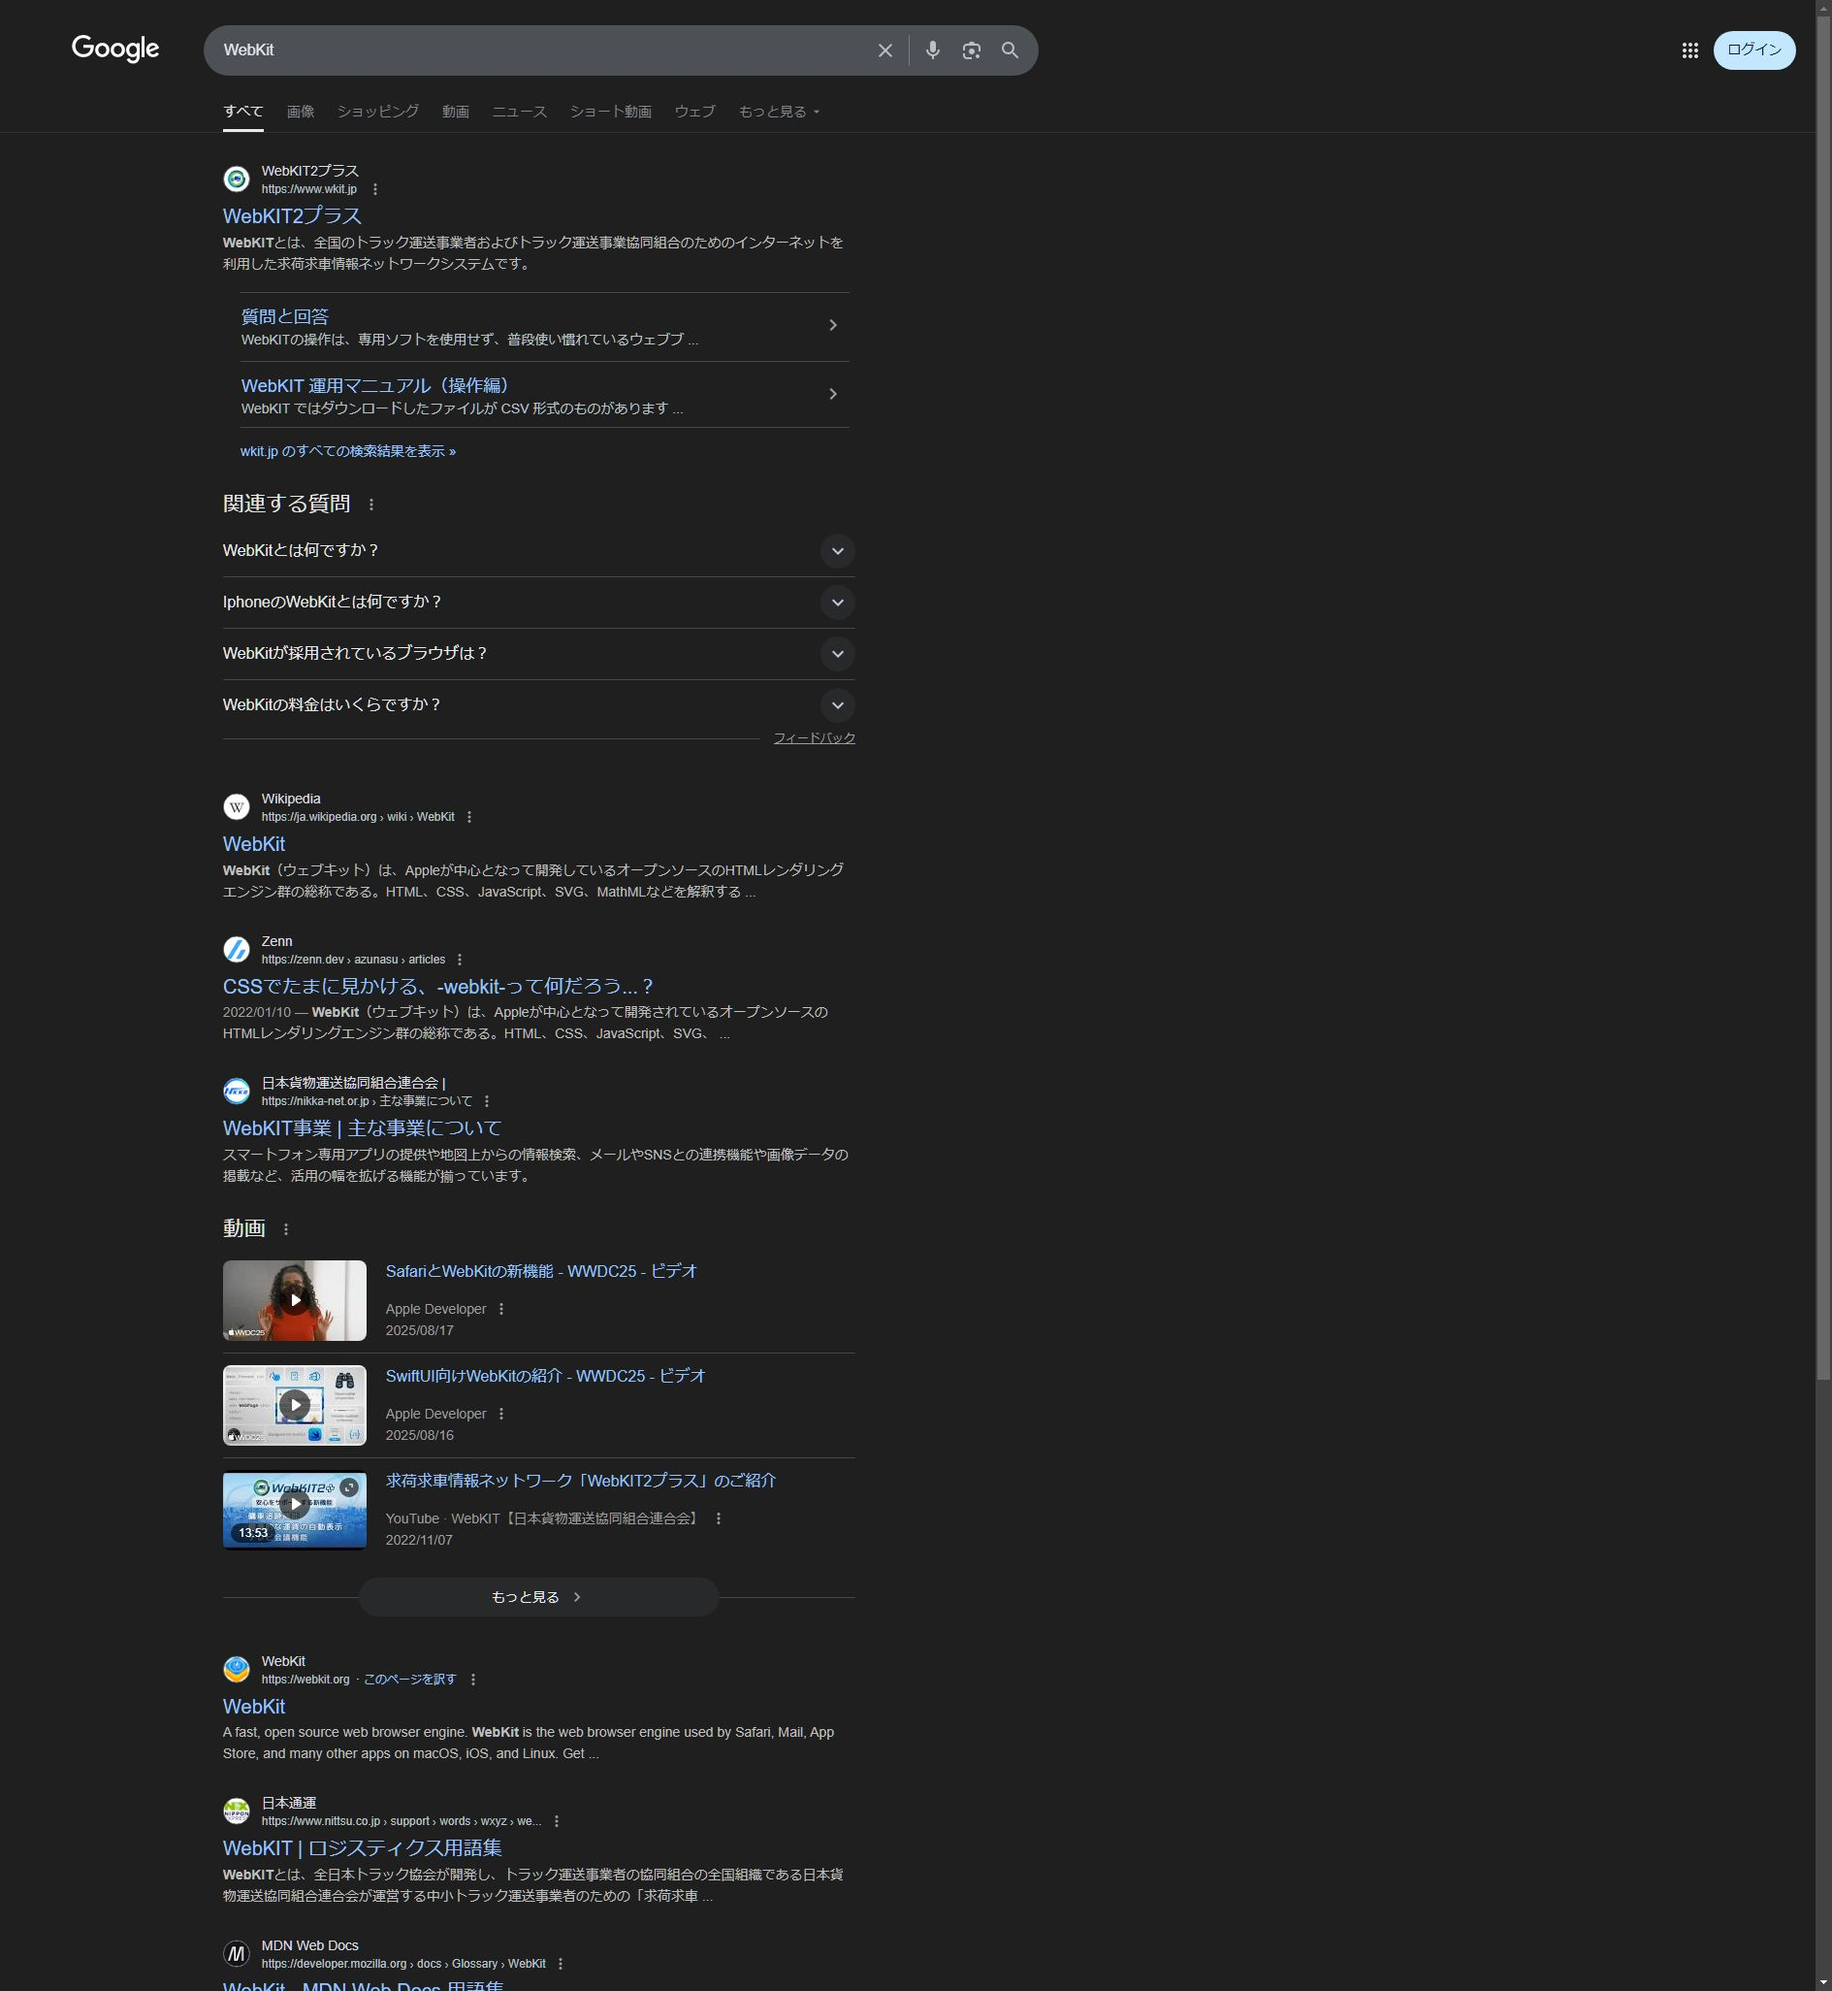
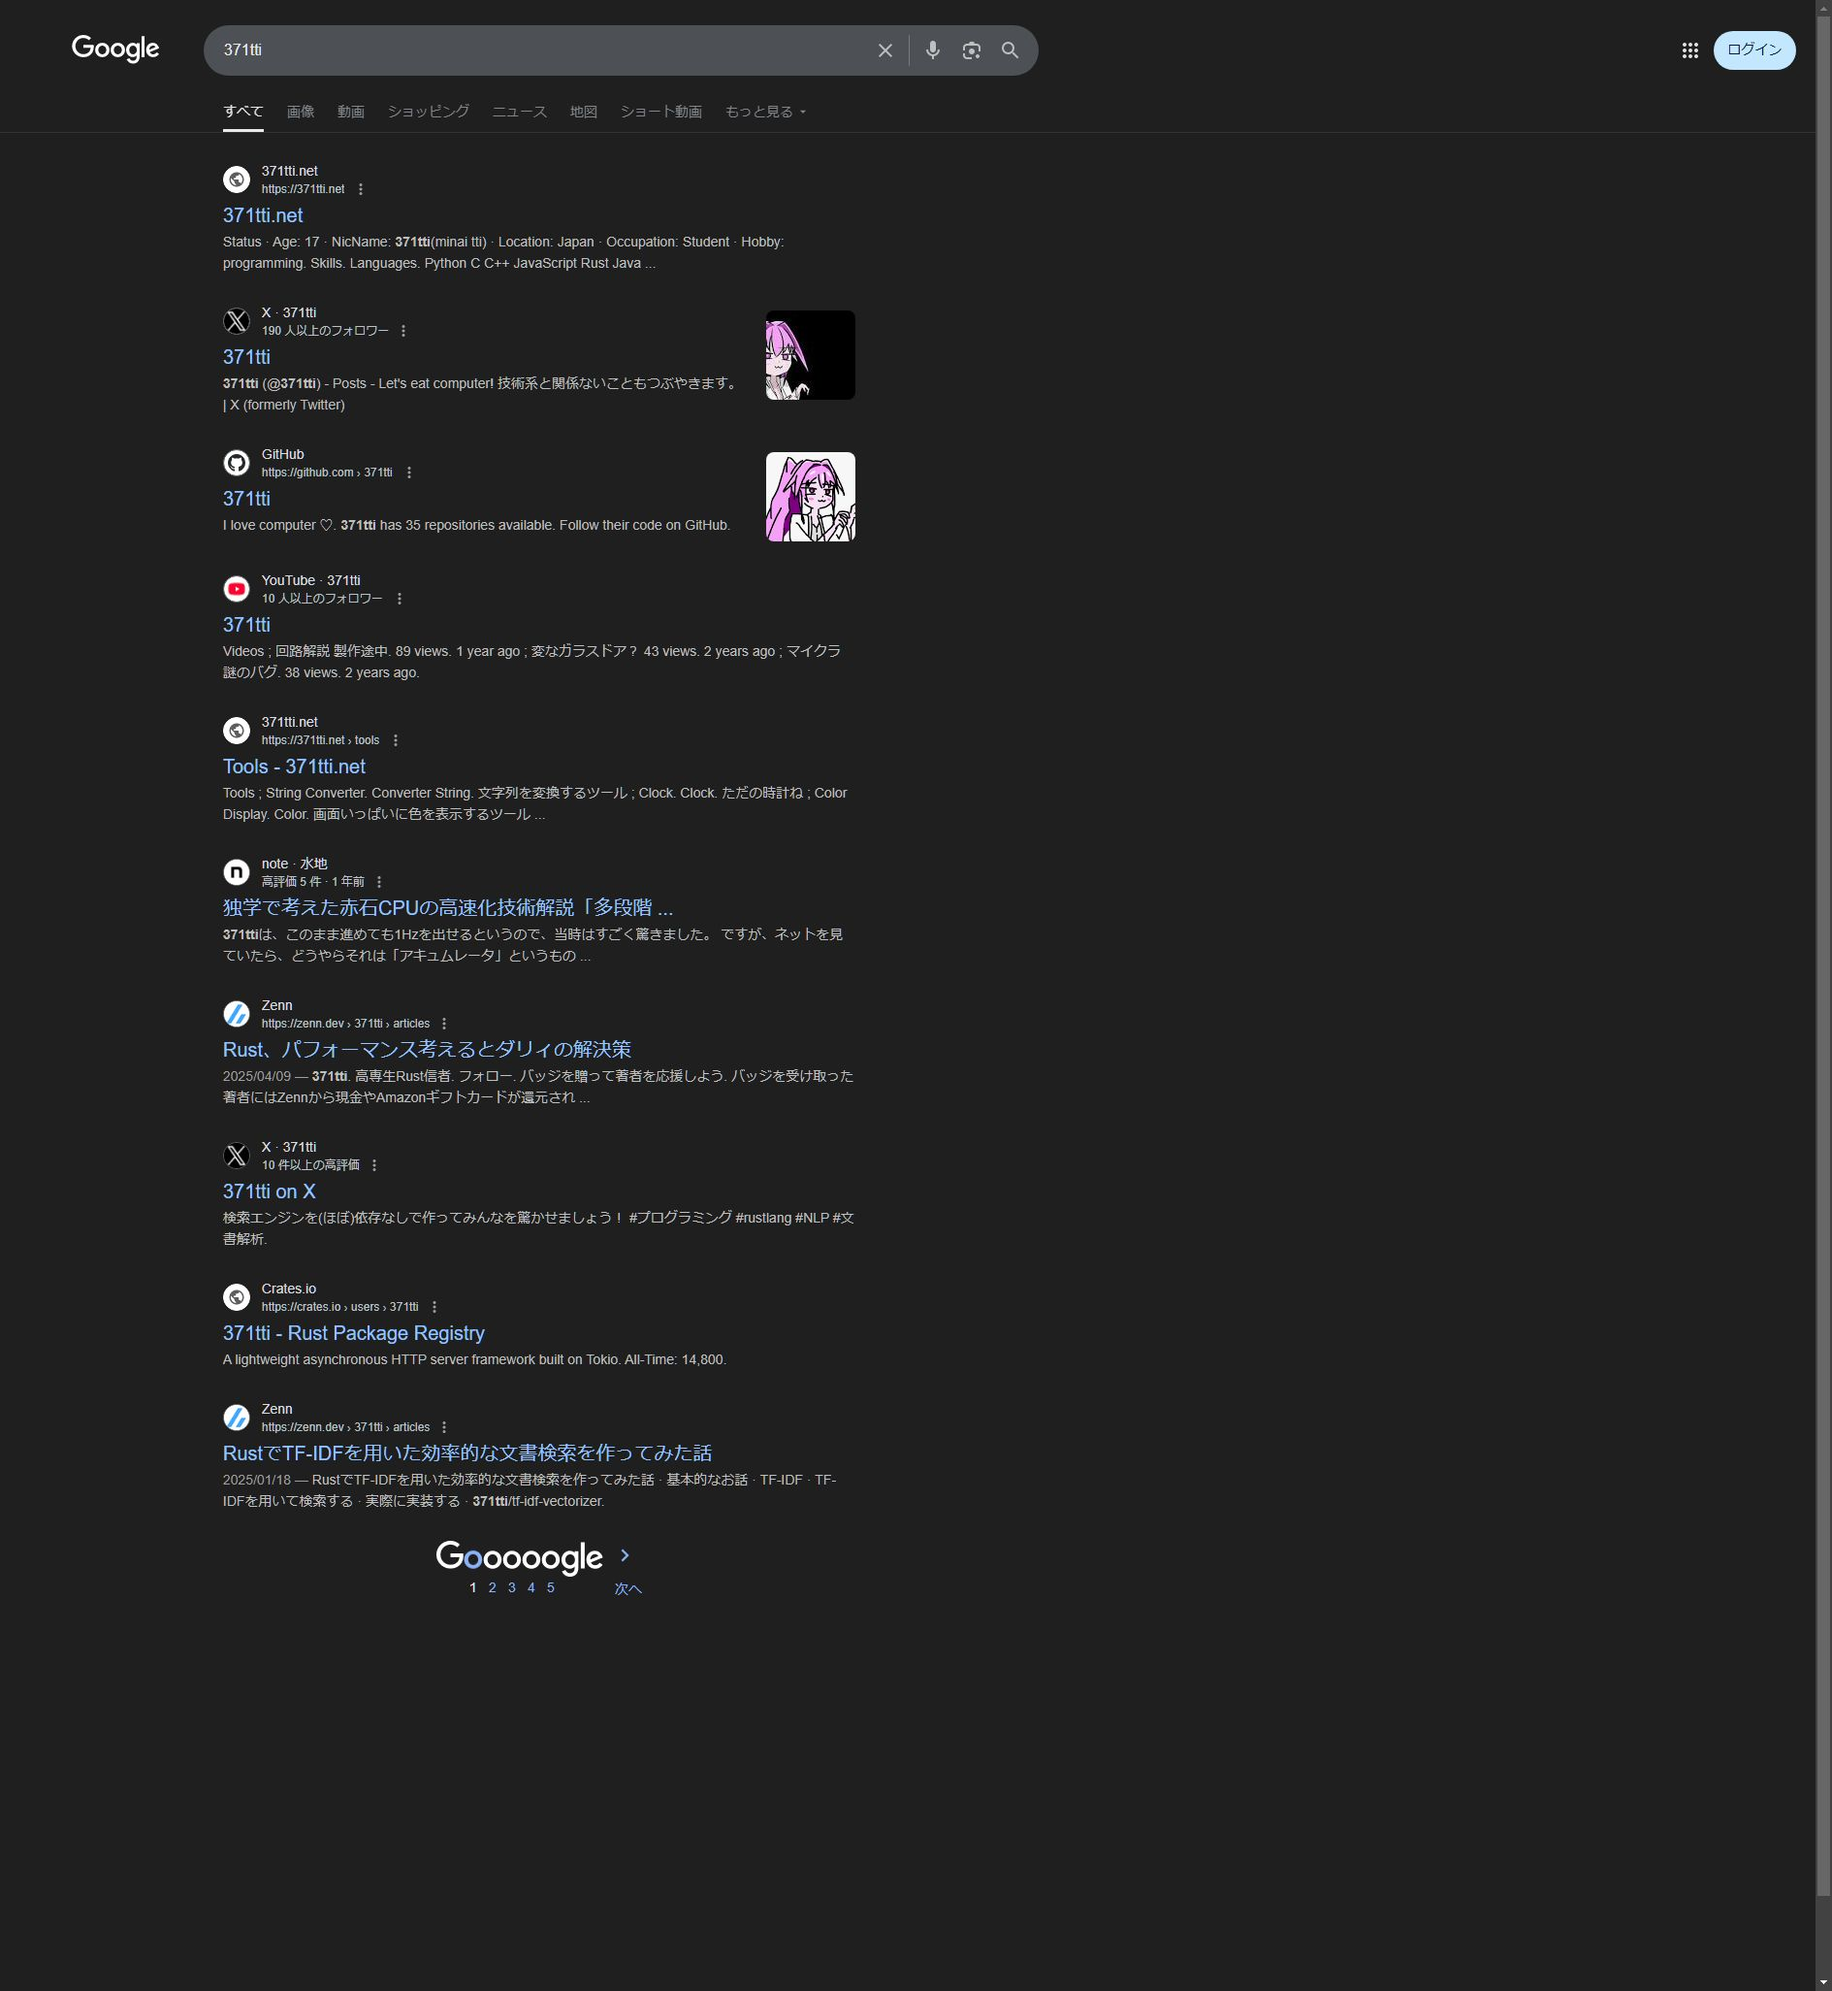
feat: Update search query in Wikipedia browsing function to "371tti"

diff --git a/src/main.rs b/src/main.rs
@@ -23,10 +23,7 @@ fn browse_wikipedia() -> Result<(), Box<dyn Error>> {
     tab.wait_for_element("textarea")?.click()?;
 
     // Type in a query and press `Enter`
-    tab.type_str("WebKit")?.press_key("Enter")?;
-
-    // We should end up on the WebKit-page once navigated
-    let elem = tab.wait_for_element("#searchform")?;
+    tab.type_str("371tti")?.press_key("Enter")?;
 
     let jpeg_data = tab.capture_screenshot(
         Page::CaptureScreenshotFormatOption::Jpeg,
